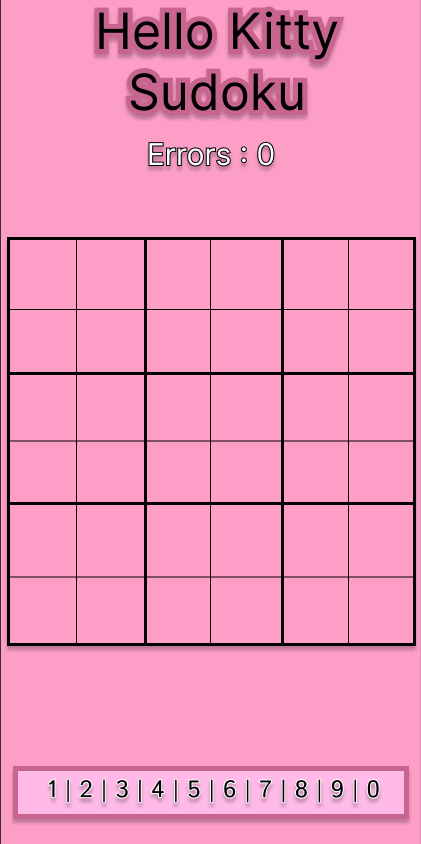
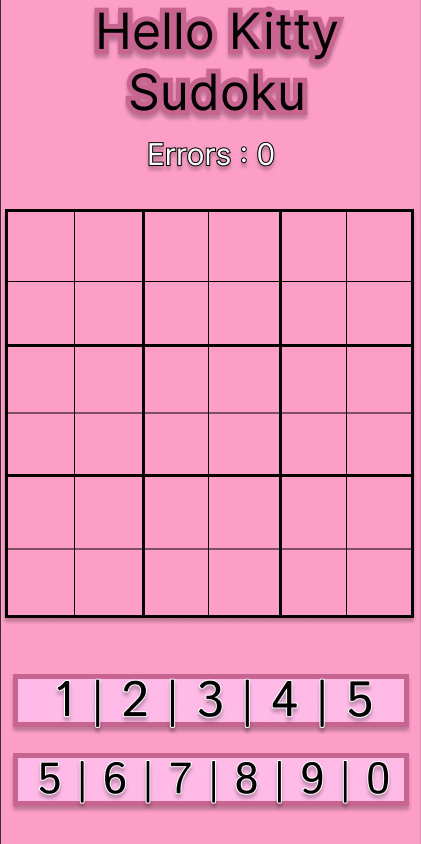
added user stories and made buttons on the game bigger for the phone

Changed region(s): [[0.0, 0.2464, 0.9881, 0.7701], [0.0309, 0.8009, 0.9881, 0.9858]]

diff --git a/user-stories.md b/user-stories.md
@@ -1,0 +1,29 @@
+Hello Kitty Sudoku \- User Stories  
+—————————
+
+User Story 1  
+As a new sudoku player, I want to have a tutorial, so that I can learn how to play the game.
+
+Acceptance Criteria 1: The player can activate a tutorial from the main menu.  
+Acceptance Criteria 2: The game shows examples of how to play and a short tutorial on the basics of sudoku.
+
+User Story 2  
+As a casual player, I want to choose a harder difficulty, so that I can have a more difficult challenge.
+
+Acceptance Criteria 1: The player can choose normal or hard mode difficulty.  
+Acceptance Criteria 2: The game starts with less pieces already found on the harder difficulty.
+
+User Story 3  
+As a competitive player, I want to see my completion time, so I can try and beat my previous times.
+
+Acceptance Criteria 1: The player is able to see his completion time when he/she beats the puzzle.  
+Acceptance Criteria 2: The game gives a congratulations screen when the puzzle is completed featuring a completion time, a happy hello kitty, and a button to restart or return to the main menu.
+
+Game Designer’s Reflection  
+—————————  
+The difficult user story was the easiest to write due to it being a simple feature to implement, and was already in the game plans.
+
+The tutorial user story was the hardest due to it being a difficult idea to actually incorporate and would take learning new skills to actually implement.
+
+These ideas will give me more buttons to account for on the screen when I design the prototypes. It will take more time due to having to design the buttons but I believe it will help bring a clearer idea when it comes to actually making the screens and make it a better experience for the user.
+
